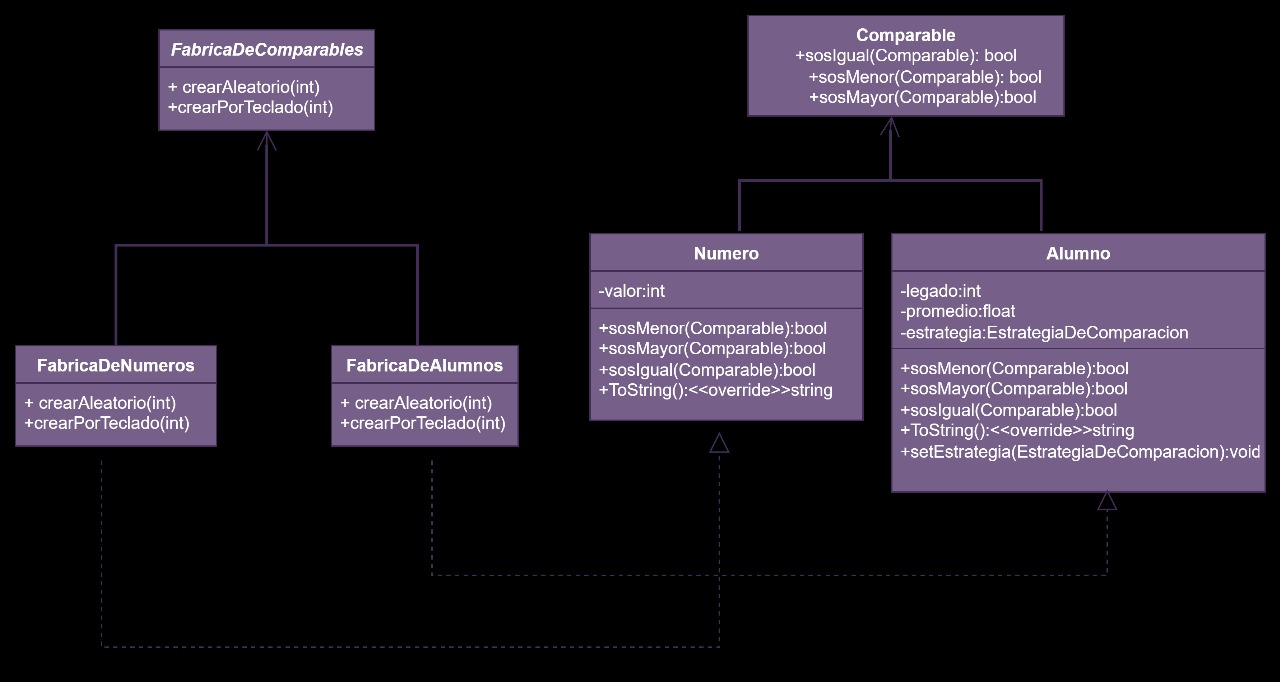
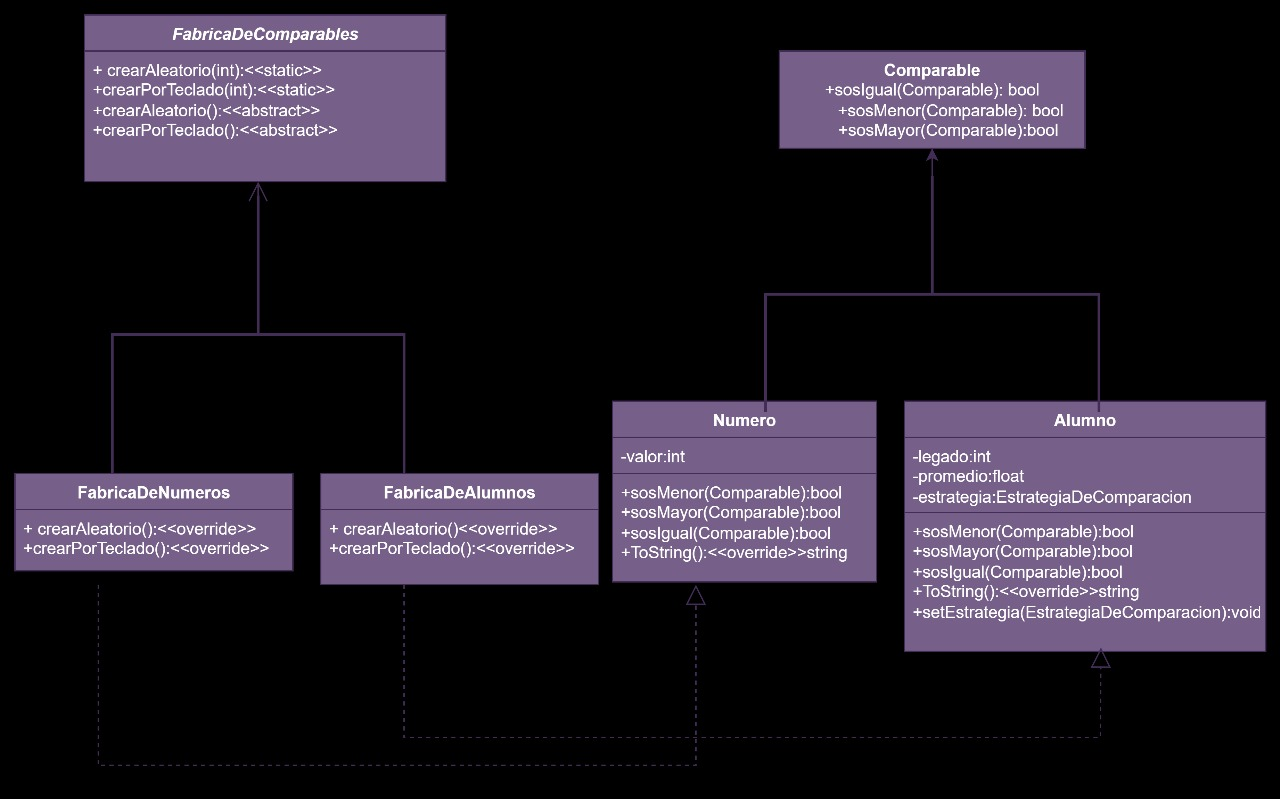
Implemente fabricaDeComparables en fabricaDeNumeros y fabricaDeAlumnos. Ademas modifique el UML de FM

diff --git a/ConsoleApp1/FabricaDeComparables.cs b/ConsoleApp1/FabricaDeComparables.cs
@@ -4,8 +4,34 @@ namespace ConsoleApp1
     public abstract class FabricaDeComparables
     {
         //metodos 
+        // aca deberia entonces tener un switch que instancie una vez segun un caso
+        public static Comparable crearAleatorio(int opcion)
+        {
+            FabricaDeComparables fabrica = null;
+            switch (opcion)
+            {
+                case 1: { fabrica = new FabricaDeNumeros(); break; }
+                case 2: { fabrica = new FabricaDeAlumnos(); break; }
+                default:{ Console.WriteLine("Opcion invalida"); break; }
+            }
+            return fabrica.crearAleatorio();
+        
+        }
+        //lo mismo para el otro metodo
+         public static Comparable crearPorTeclado(int opcion)
+        {
+            FabricaDeComparables fabrica = null;
+            switch (opcion)
+            {
+                case 1: { fabrica = new FabricaDeNumeros(); break; }
+                case 2: { fabrica = new FabricaDeAlumnos(); break; }
+                default:{ Console.WriteLine("Opcion invalida"); break; }
+            }
+            return fabrica.crearPorTeclado();
+        
+        }
         //devuelve un comparable generado aleatoriamente
-        public abstract Comparable CrearAleatorio();
+        public abstract Comparable crearAleatorio();
         //devuelve un comparable donde los datos se ingresan por teclado
         public abstract Comparable crearPorTeclado();
 

diff --git a/ConsoleApp1/FabricadeNumeros.cs b/ConsoleApp1/FabricadeNumeros.cs
@@ -1,0 +1,22 @@
+using System;
+using System.Runtime.InteropServices;
+namespace ConsoleApp1
+{
+    public class FabricaDeNumeros : FabricaDeComparables
+    {
+        //metodos
+        //Utilizo el generador de datos aleatorios
+        GeneradorDeDatosAleatorios generador = new GeneradorDeDatosAleatorios();
+        LectorDeDatos lector = new LectorDeDatos();
+        //sobreescribo los metodos de fabrica de comparables
+
+        public override Comparable crearAleatorio()
+        {
+            return new Numero(generador.numeroAleatorio(100));
+        }
+        public override Comparable crearPorTeclado()
+        {
+            return new Numero(lector.numeroPorTeclado());
+        }
+    }
+}

diff --git a/ConsoleApp1/obj/Debug/net9.0/ConsoleApp1.AssemblyInfo.cs b/ConsoleApp1/obj/Debug/net9.0/ConsoleApp1.AssemblyInfo.cs
@@ -13,7 +13,7 @@ using System.Reflection;
 [assembly: System.Reflection.AssemblyCompanyAttribute("ConsoleApp1")]
 [assembly: System.Reflection.AssemblyConfigurationAttribute("Debug")]
 [assembly: System.Reflection.AssemblyFileVersionAttribute("1.0.0.0")]
-[assembly: System.Reflection.AssemblyInformationalVersionAttribute("1.0.0+a32a53aa070f3e209d83ff3ce5e09c2119ea710f")]
+[assembly: System.Reflection.AssemblyInformationalVersionAttribute("1.0.0+1bdd4079a72aa376e8a113fd40a63a5cf5b94d0b")]
 [assembly: System.Reflection.AssemblyProductAttribute("ConsoleApp1")]
 [assembly: System.Reflection.AssemblyTitleAttribute("ConsoleApp1")]
 [assembly: System.Reflection.AssemblyVersionAttribute("1.0.0.0")]

diff --git a/ConsoleApp1/GeneradorDeDatosAleatorios.cs b/ConsoleApp1/GeneradorDeDatosAleatorios.cs
@@ -15,7 +15,7 @@ namespace ConsoleApp1
         // un metodo  que me retorne un entero entre 0 y n maximo 
         public int numeroAleatorio(int max) { return random.Next(max); }
         //retorna un string aleatorio de x cantidad de caracteres
-        public string stringAleatoriO(int cantidad)
+        public string stringAleatoriO(int cantidad=5)
         {
             //defino una constante con los caracteres que se encuentran en el abecedario
             const string caracteres = "ABCDEFGHIJKLMNÑOPQRSTUVWXYZ";

diff --git a/ConsoleApp1/FabricaDeAlumnos.cs b/ConsoleApp1/FabricaDeAlumnos.cs
@@ -1,0 +1,11 @@
+using System;
+namespace ConsoleApp1
+{
+    public class FabricaDeAlumnos : FabricaDeComparables
+    {
+        
+
+    }
+        
+    
+}
